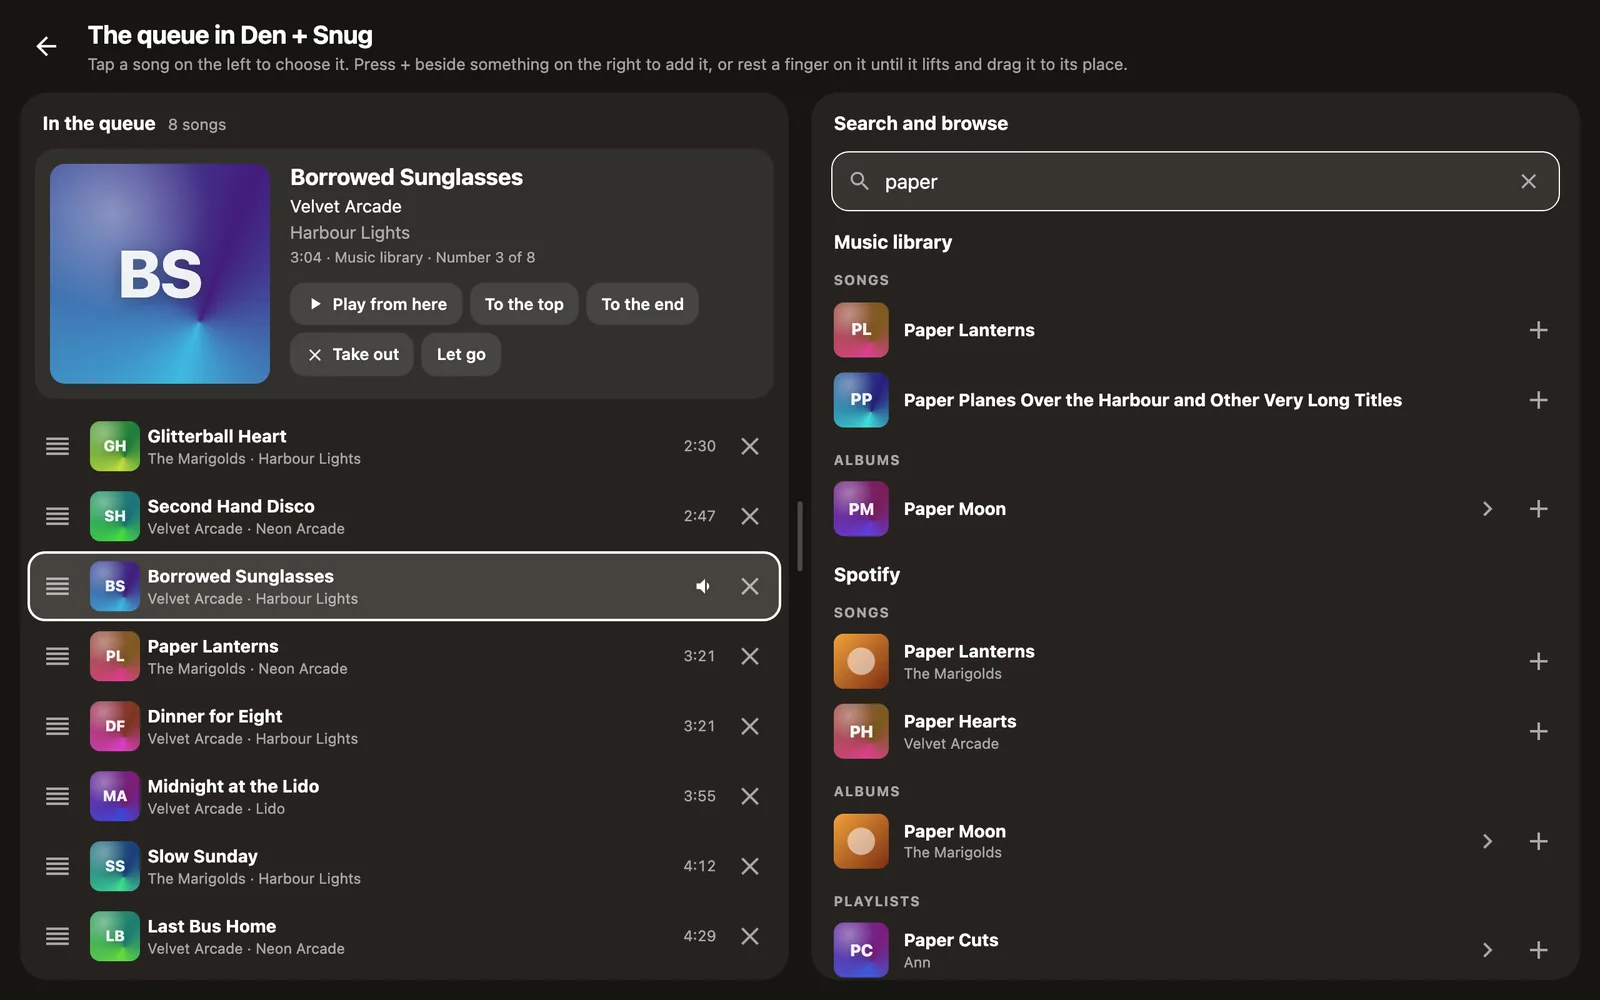
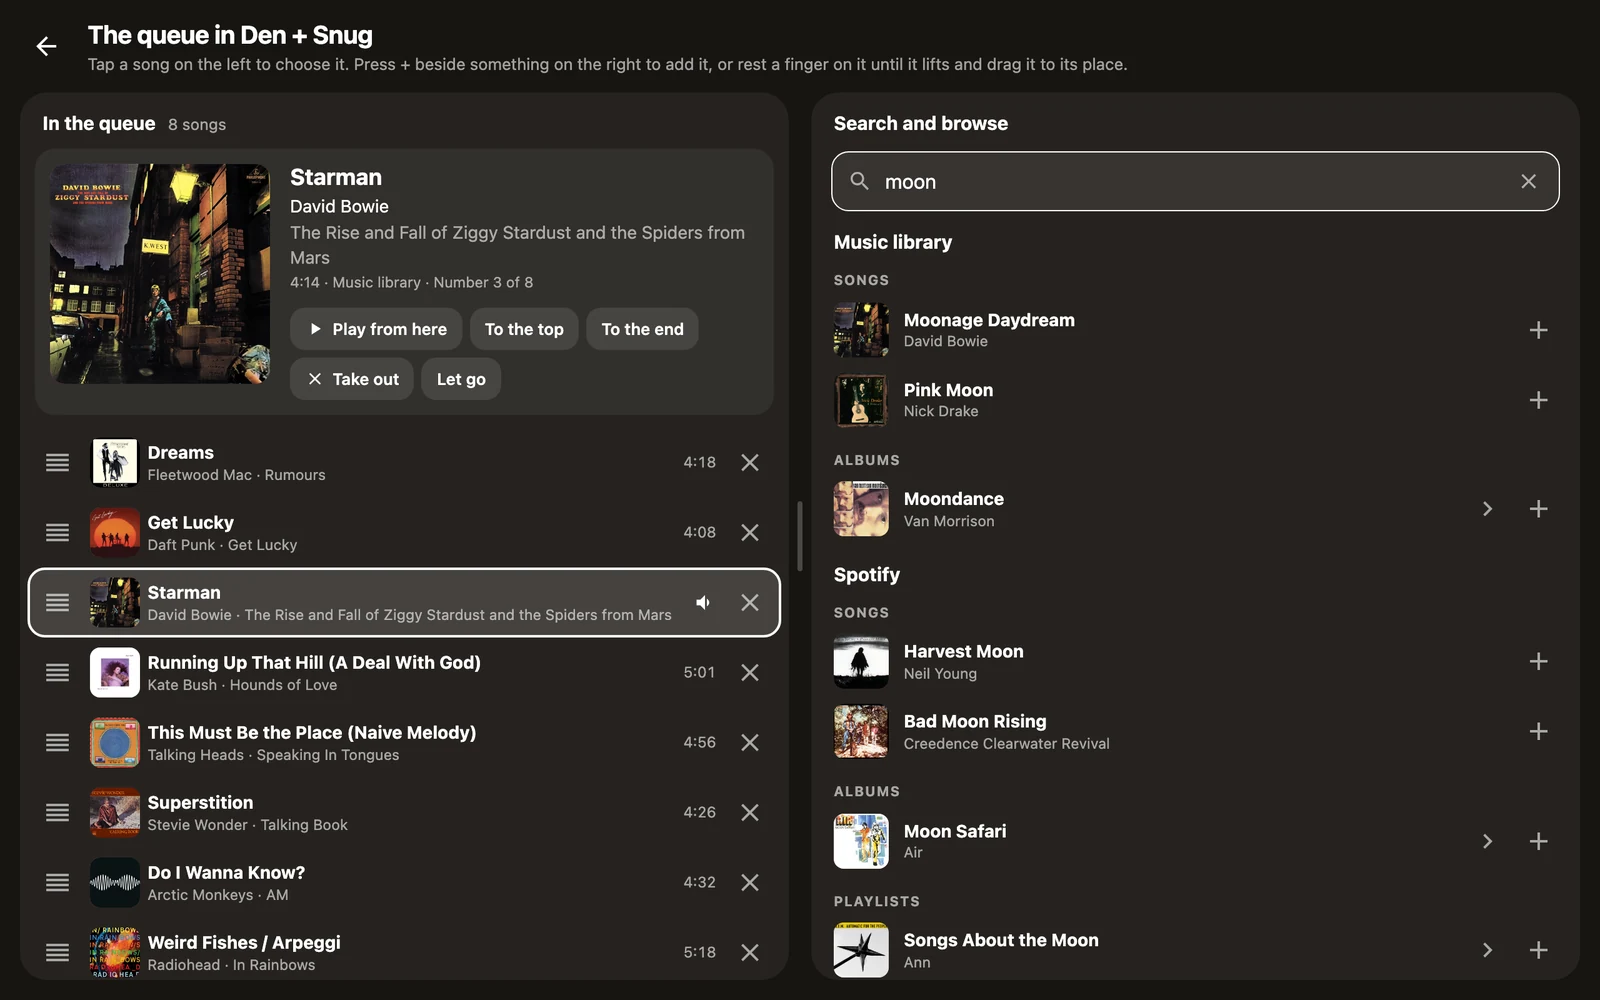
2026.11.13-b7: Jukebox: the micro player's bars are drawn; the guide's pictures show real songs with their covers
In b6 the mark for playing and paused was an empty square: its padding was
a share of the whole picture's width and left the bars no room.

diff --git a/integration/cards/src/jukebox/micro.ts b/integration/cards/src/jukebox/micro.ts
@@ -143,14 +143,18 @@ export class MicroCard extends Following {
 
       /* A sign on the picture: square-cornered and too small for a finger, so it isn't
          taken for something to press. A tap on it is a tap on the picture. */
-      .mark { position: absolute; top: 5%; left: 5%; display: grid; place-items: center; width: clamp(16px, 28cqw, 30px); height: clamp(16px, 28cqw, 30px); border-radius: 22%; background: rgb(0 0 0 / 60%); color: #fff; pointer-events: none; }
+      .mark { position: absolute; top: 5%; left: 5%; display: grid; place-items: center; width: clamp(16px, 28cqw, 30px); height: clamp(16px, 28cqw, 30px); border-radius: 22%; background: rgb(0 0 0 / 60%); color: #fff; pointer-events: none;
+        /* A light edge, so the mark is still a mark on a cover that is black itself. */
+        box-shadow: 0 0 0 1px rgb(255 255 255 / 22%); }
       .mark svg { width: 70%; height: 70%; }
       .mark.warn { background: var(--error-color, #db4437); }
 
       /* The bars move only while the house says music is playing: only their height is
          changed, by a transform, which costs a wall tablet nothing to draw. */
-      .mark.eq { display: flex; align-items: flex-end; gap: 10%; padding: 22% 20%; }
-      .eq i { flex: 1; height: 100%; border-radius: 1px; background: currentColor; transform-origin: bottom; transform: scaleY(0.3); }
+      .mark.eq { display: flex; align-items: center; justify-content: center; gap: 9%; }
+      /* Sized as parts of the mark itself: a padding in % would be of the whole picture's
+         width, and left the bars no room at all. */
+      .eq i { width: 14%; height: 56%; border-radius: 1px; background: currentColor; transform-origin: bottom; transform: scaleY(0.3); }
       .playing .eq i { animation: bar 0.9s ease-in-out infinite alternate; }
       .playing .eq i:nth-child(2) { animation-delay: -0.3s; }
       .playing .eq i:nth-child(3) { animation-delay: -0.6s; }

diff --git a/integration/custom_components/casa_mia_jukebox/www/cards.js b/integration/custom_components/casa_mia_jukebox/www/cards.js
@@ -3168,14 +3168,18 @@ var pn = class extends Q {
 
       /* A sign on the picture: square-cornered and too small for a finger, so it isn't
          taken for something to press. A tap on it is a tap on the picture. */
-      .mark { position: absolute; top: 5%; left: 5%; display: grid; place-items: center; width: clamp(16px, 28cqw, 30px); height: clamp(16px, 28cqw, 30px); border-radius: 22%; background: rgb(0 0 0 / 60%); color: #fff; pointer-events: none; }
+      .mark { position: absolute; top: 5%; left: 5%; display: grid; place-items: center; width: clamp(16px, 28cqw, 30px); height: clamp(16px, 28cqw, 30px); border-radius: 22%; background: rgb(0 0 0 / 60%); color: #fff; pointer-events: none;
+        /* A light edge, so the mark is still a mark on a cover that is black itself. */
+        box-shadow: 0 0 0 1px rgb(255 255 255 / 22%); }
       .mark svg { width: 70%; height: 70%; }
       .mark.warn { background: var(--error-color, #db4437); }
 
       /* The bars move only while the house says music is playing: only their height is
          changed, by a transform, which costs a wall tablet nothing to draw. */
-      .mark.eq { display: flex; align-items: flex-end; gap: 10%; padding: 22% 20%; }
-      .eq i { flex: 1; height: 100%; border-radius: 1px; background: currentColor; transform-origin: bottom; transform: scaleY(0.3); }
+      .mark.eq { display: flex; align-items: center; justify-content: center; gap: 9%; }
+      /* Sized as parts of the mark itself: a padding in % would be of the whole picture's
+         width, and left the bars no room at all. */
+      .eq i { width: 14%; height: 56%; border-radius: 1px; background: currentColor; transform-origin: bottom; transform: scaleY(0.3); }
       .playing .eq i { animation: bar 0.9s ease-in-out infinite alternate; }
       .playing .eq i:nth-child(2) { animation-delay: -0.3s; }
       .playing .eq i:nth-child(3) { animation-delay: -0.6s; }

diff --git a/docs/applets/jukebox.md b/docs/applets/jukebox.md
@@ -11,7 +11,7 @@ rooms and a volume for each; the queue; favourites and Sonos playlists, which yo
 look into and change; a search of the music library and Spotify; cards for your own
 dashboards; a lock that stops guests changing the music at a party; and announcements.
 
-<img src="../screenshots/jukebox.webp" alt="Jukebox's page, headed Music: three small players, for Borrowed Sunglasses playing in the den and snug, the station Harbour FM in the kitchen, and Slow Sunday in the garden, each with pause, skip or stop, and a volume slider. Under them, the porch is listed as a quiet room and the shed as not answering" width="800">
+<img src="../screenshots/jukebox.webp" alt="Jukebox's page, headed Music: three small players, for Starman playing in the den and snug, Blue Monday on a station in the kitchen, its cover carrying the station's badge, and Feeling Good in the garden, each with pause, skip or stop, and a volume slider. Under them, the porch and this computer are listed as quiet rooms and the shed as not answering" width="800">
 
 It adds no media players. Each room stays the one entity that Home Assistant's Sonos
 integration makes, and Jukebox, the Sonos app and your dashboards all use that entity.
@@ -132,7 +132,7 @@ Tap a player to open it over the whole screen. There you have:
   drag a song to move it, take one out with the cross, and press **Add** to put
   something on the end: a song or an album from the music library, or a song, an
   album or a playlist from Spotify. Each heading in Favourites folds its section away. A playlist's tile shows the covers of the first four albums in it.
-<img src="../screenshots/jukebox-player.webp" alt="Jukebox's big player on a wide screen. On the left the cover of Borrowed Sunglasses by Velvet Arcade, playing in the den and snug, with the place in the song, shuffle, previous, pause, next and repeat, and the volume. On the right the Queue tab: Add, Edit, Save and Clear, then eight songs, each with a handle to drag it by, its picture, title, artist and album, its length, and a cross to take it out" width="800">
+<img src="../screenshots/jukebox-player.webp" alt="Jukebox's big player on a wide screen. On the left the cover of Starman by David Bowie, playing in the den and snug, with the place in the song, shuffle, previous, pause, next and repeat, and the volume. On the right the Queue tab: Add, Edit, Save and Clear, then eight songs, each with a handle to drag it by, its picture, title, artist and album, its length, and a cross to take it out" width="800">
 
 - **Edit…** (on a wide screen only, on the Queue tab and on a playlist's
   songs) opens an editor over the whole screen: the queue or the playlist on the left,
@@ -163,7 +163,7 @@ Tap a player to open it over the whole screen. There you have:
   side more room. The width is remembered in that browser. Once you have moved it, a
   small round button on the bar puts it back; so does a double tap on the bar.
 
-<img src="../screenshots/jukebox-editor.webp" alt="Jukebox's editor for the queue in the den and snug. On the left the queue's eight songs. On the right a search for paper, with songs, albums and playlists found in the music library and on Spotify. The third song of the queue is chosen, and is shown above the list with its cover, title, artist and album, and buttons to play from it, move it to the top or the end, or take it out" width="800">
+<img src="../screenshots/jukebox-editor.webp" alt="Jukebox's editor for the queue in the den and snug. On the left the queue's eight songs. On the right a search for moon, with songs, albums and playlists found in the music library and on Spotify. The third song of the queue is chosen, and is shown above the list with its cover, title, artist and album, and buttons to play from it, move it to the top or the end, or take it out" width="800">
 
 - **Search:** one box searches the Sonos music library and Spotify together, and shows
   what each found under its own heading. Press **+** beside a result to play it, play
@@ -386,6 +386,8 @@ and add the pieces you want. Each is in the card picker under "Casa Mia Jukebox"
 | **Quiet rooms** | A chip for each room playing nothing, which opens its favourites, and any speaker that isn't answering. | Whether to show its heading, and whether to list the speakers that aren't answering. |
 | **Shortcut** | One button that plays one favourite in the rooms you choose. | The favourite's name, the rooms, and optionally what the button says, an icon, and whether to play it next or add it to the end of the queue. |
 | **Now playing** | The whole player for one room, in place: artwork, controls, queue, rooms, favourites, search and the party lock. | The room. |
+
+<img src="../screenshots/jukebox-micro.webp" alt="Five micro players side by side: a song playing, with small bars on its cover; a station that is muted, with a crossed speaker; a paused song, with the bars low and still; a quiet room, shown by its initial; and a room that is not answering, with a red warning sign" width="600">
 
 Every card is set up with a form in the dashboard editor, with the usual Layout and
 Visibility tabs beside it; none needs YAML.

diff --git a/app/CHANGELOG.md b/app/CHANGELOG.md
@@ -1,5 +1,10 @@
 # Changelog
 
+## 2026.11.13-b7
+
+- Jukebox: the micro player's bars are drawn. In b6 the mark for playing and paused was an empty square. The mark also has a light edge, so it shows on a cover that is black.
+- Jukebox: the guide's pictures show real songs with their covers, and there is one of the micro player.
+
 ## 2026.11.13-b6
 
 - Jukebox: a new card, the micro player, for a sidebar or any small space. It is only the picture of what a room is playing, with no controls, and a tap opens the big player. Small bars on the picture move while music is playing and stand still while it is paused, when the picture also loses its colour. A crossed speaker is shown when the room is muted, and a warning sign when the room isn't answering or Home Assistant can't be reached. Choose a room, or leave it empty for one picture for each thing playing.
